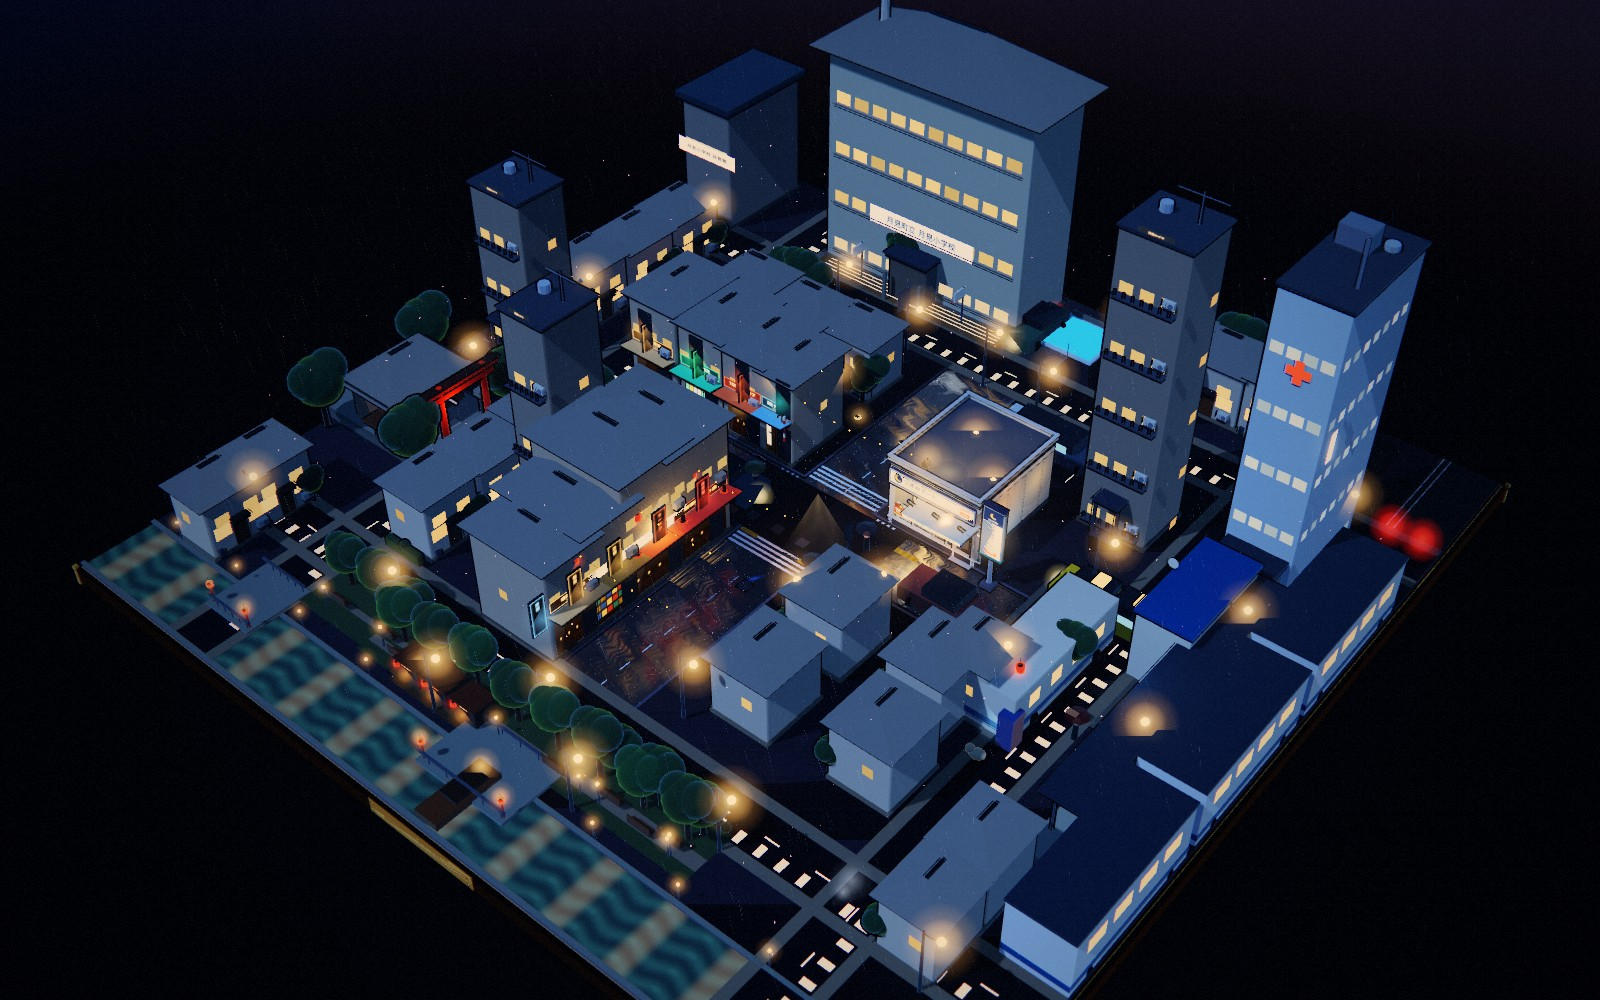
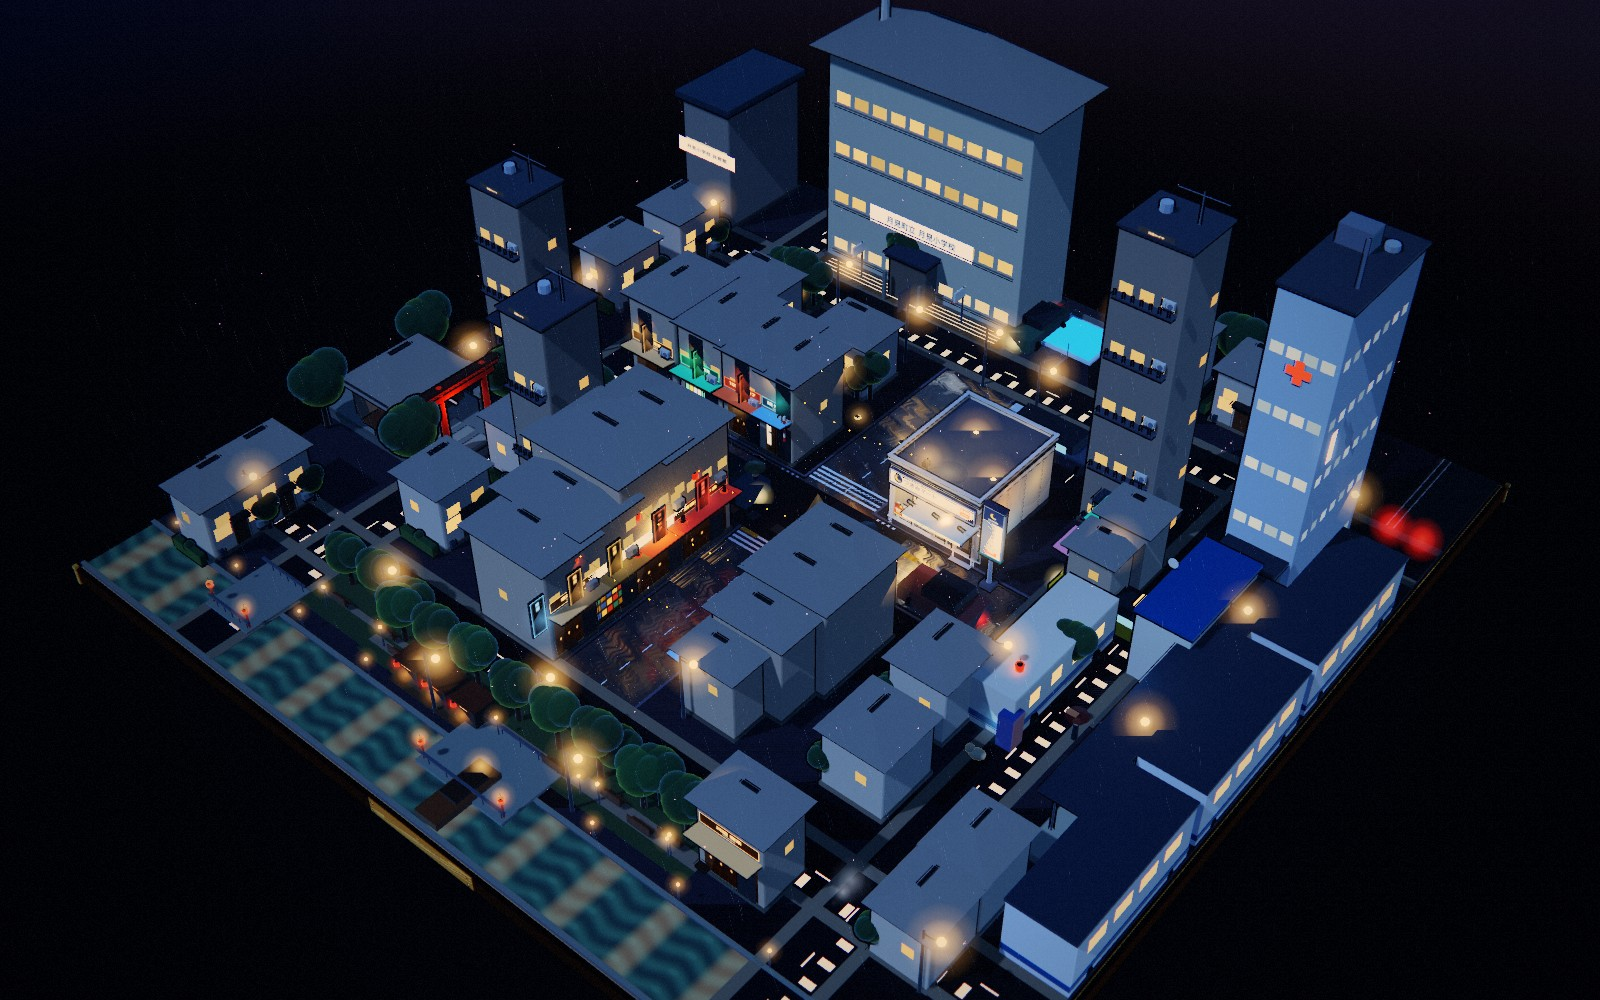
feat(konbini-rain): 拉开住宅间距 + 补齐商业街/医院/河岸店铺
- 独栋住宅 21→14 栋，沿街间距拉开，留出庭院/绿篱/树，解决房子太挤
- 主街东侧新增洋服/电器/邮局/交番，形成两侧真正的商店街
- 医院周边新增 24h 药局/花店，河边新增川辺喫茶
- 14 栋住宅 + 3 栋公寓 + 15 家店面/设施，44×44 街区重新分布
- README/首页卡片/日间・夜间・街景截图同步

diff --git a/apps/konbini-rain/src/config.js b/apps/konbini-rain/src/config.js
@@ -241,6 +241,16 @@ export const E = {
     { id: 'pharmacy', style: 'pharmacy', jp: 'くすり 月見', en: 'PHARMACY', kind: 'pharmacy', x: -8.6, z: -2.4, ry: 0, w: 2.6, d: 4.0, h: 5.0, accent: '#7dffc0', sign: '#c8f0ff', paper: '#1a3a3a' },
     { id: 'thrift', style: 'thrift', jp: '100円ショップ', en: 'HYAKU-EN', kind: 'thrift', x: -6.0, z: -2.4, ry: 0, w: 2.4, d: 4.0, h: 4.8, accent: '#ff8a5c', sign: '#ffe0b0', paper: '#5a2a2a' },
     { id: 'barber', style: 'barber', jp: '床屋 タカハシ', en: 'TAKAHASHI', kind: 'barber', x: -4.0, z: -2.4, ry: 0, w: 1.8, d: 3.6, h: 4.6, accent: '#9fd8ff', sign: '#cfe8ff', paper: '#1e2a3a' },
+    // 主街东侧第二排店面（朝西，构成真正两侧商店街）
+    { id: 'clothing', style: 'clothing', jp: '洋服 そよ風', en: 'SOYOKAZE', kind: 'clothing', x: 3.3, z: 4.4, ry: -Math.PI / 2, w: 2.2, d: 3.8, h: 4.8, accent: '#e8a0b8', sign: '#ffe0e8', paper: '#3a2430' },
+    { id: 'electronics', style: 'electronics', jp: '電器 ヤマ電', en: 'YAMADEN', kind: 'electronics', x: 3.3, z: 6.6, ry: -Math.PI / 2, w: 2.2, d: 3.8, h: 4.8, accent: '#9fd8ff', sign: '#d8f0ff', paper: '#1e2a3a' },
+    { id: 'post', style: 'post', jp: '月見郵便局', en: 'POST OFFICE', kind: 'post', x: 3.3, z: 8.8, ry: -Math.PI / 2, w: 2.0, d: 3.4, h: 4.2, accent: '#ff6f5e', sign: '#ffd9a0', paper: '#3a1e1a' },
+    { id: 'koban', style: 'post', jp: '月見交番', en: 'KOBA N', kind: 'post', x: 3.3, z: 10.8, ry: -Math.PI / 2, w: 1.7, d: 2.6, h: 3.4, accent: '#9fd8ff', sign: '#d8f0ff', paper: '#1e2a3a' },
+    // 医院周边：24h 药局 / 花店
+    { id: 'clinic-pharmacy', style: 'pharmacy', jp: '24h 月見薬局', en: 'TSUKIMI 24H', kind: 'pharmacy', x: 11.2, z: -6.2, ry: -Math.PI / 2, w: 1.9, d: 2.2, h: 3.4, accent: '#7dffc0', sign: '#c8f0ff', paper: '#1a3a3a' },
+    { id: 'clinic-flower', style: 'flower', jp: '花 ふじ', en: 'FUJI FLOWERS', kind: 'clothing', x: 11.2, z: -3.8, ry: -Math.PI / 2, w: 1.7, d: 2.0, h: 3.2, accent: '#ffb7c5', sign: '#ffe0e8', paper: '#3a2430' },
+    // 河边咖啡
+    { id: 'river-cafe', style: 'cafe', jp: '川辺 喫茶', en: 'RIVERSIDE', kind: 'cafe', x: 10.4, z: 16.8, ry: 0, w: 3.0, d: 2.2, h: 3.8, accent: '#ffcf94', sign: '#ffd9a0', paper: '#2a1c14' },
   ],
 
 
@@ -261,34 +271,28 @@ export const E = {
 
   // 住宅（外圈 + 内圈，按街道朝向）
   houses: [
-    // 西侧外圈（沿次街）
-    { x: -19.0, z: -12.0, w: 3.0, d: 2.6, h: 3.1, ry: Math.PI / 2, roof: 'gable', warm: '#ffcf94', garden: true },
-    { x: -19.0, z: -8.6, w: 3.0, d: 2.6, h: 3.0, ry: Math.PI / 2, roof: 'hip', warm: '#ffd9a0', garden: true },
-    { x: -19.0, z: -5.2, w: 3.0, d: 2.6, h: 3.2, ry: Math.PI / 2, roof: 'gable', warm: '#ffcf94', garden: false },
+    // 西侧外圈（拉开间距，每户带院子）
+    { x: -19.0, z: -12.2, w: 3.0, d: 2.6, h: 3.1, ry: Math.PI / 2, roof: 'gable', warm: '#ffcf94', garden: true },
+    { x: -19.0, z: -7.6, w: 3.0, d: 2.6, h: 3.0, ry: Math.PI / 2, roof: 'hip', warm: '#ffd9a0', garden: true },
     { x: -19.0, z: 14.4, w: 3.0, d: 2.4, h: 3.0, ry: Math.PI / 2, roof: 'hip', warm: '#ffd9a0', garden: true },
-    { x: -19.0, z: 16.8, w: 3.0, d: 2.4, h: 2.9, ry: Math.PI / 2, roof: 'gable', warm: '#ffcf94', garden: false },
-    // 北侧外圈（校园以东）
-    { x: 6.2, z: -19.0, w: 3.0, d: 2.8, h: 3.1, ry: 0, roof: 'gable', warm: '#ffcf94', garden: true },
-    { x: 9.4, z: -19.0, w: 3.0, d: 2.8, h: 3.0, ry: 0, roof: 'hip', warm: '#ffd9a0', garden: false },
-    { x: 12.6, z: -19.0, w: 3.0, d: 2.8, h: 3.2, ry: 0, roof: 'gable', warm: '#ffcf94', garden: true },
-    // 内圈西北（商店街背后）
-    { x: -11.4, z: -9.6, w: 3.0, d: 2.6, h: 3.2, ry: 0, roof: 'gable', warm: '#ffcf94', garden: true },
-    { x: -8.0, z: -9.6, w: 3.0, d: 2.6, h: 3.0, ry: 0, roof: 'hip', warm: '#ffd9a0', garden: false },
-    { x: -4.8, z: -9.6, w: 2.8, d: 2.6, h: 3.1, ry: 0, roof: 'hip', warm: '#ffcf94', garden: true },
+    { x: -19.0, z: 16.8, w: 3.0, d: 2.4, h: 2.9, ry: Math.PI / 2, roof: 'gable', warm: '#ffcf94', garden: true },
+    // 北侧外圈（校园以东，间距 4.6m）
+    { x: 6.6, z: -19.0, w: 3.0, d: 2.8, h: 3.1, ry: 0, roof: 'gable', warm: '#ffcf94', garden: true },
+    { x: 11.2, z: -19.0, w: 3.0, d: 2.8, h: 3.0, ry: 0, roof: 'hip', warm: '#ffd9a0', garden: true },
+    // 内圈西北（商店街背后，留出庭院）
+    { x: -11.2, z: -9.6, w: 3.0, d: 2.6, h: 3.2, ry: 0, roof: 'gable', warm: '#ffcf94', garden: true },
+    { x: -5.2, z: -9.6, w: 3.0, d: 2.6, h: 3.0, ry: 0, roof: 'hip', warm: '#ffd9a0', garden: true },
     // 内圈西南（商店街以西）
-    { x: -12.0, z: 4.6, w: 2.8, d: 2.6, h: 3.2, ry: Math.PI / 2, roof: 'gable', warm: '#ffcf94', garden: true },
-    { x: -12.0, z: 7.8, w: 2.8, d: 2.6, h: 3.0, ry: Math.PI / 2, roof: 'hip', warm: '#ffd9a0', garden: false },
-    { x: -12.0, z: 11.0, w: 2.8, d: 2.6, h: 3.1, ry: Math.PI / 2, roof: 'gable', warm: '#ffcf94', garden: true },
+    { x: -12.0, z: 5.2, w: 2.8, d: 2.6, h: 3.2, ry: Math.PI / 2, roof: 'gable', warm: '#ffcf94', garden: true },
+    { x: -12.0, z: 10.2, w: 2.8, d: 2.6, h: 3.1, ry: Math.PI / 2, roof: 'hip', warm: '#ffcf94', garden: true },
     // 内圈东南
-    { x: 5.6, z: 5.0, w: 3.2, d: 2.8, h: 3.2, ry: -Math.PI / 2, roof: 'gable', warm: '#ffcf94', garden: true },
-    { x: 5.6, z: 9.4, w: 3.2, d: 2.8, h: 3.0, ry: -Math.PI / 2, roof: 'hip', warm: '#ffd9a0', garden: false },
-    { x: 10.6, z: 5.2, w: 3.0, d: 2.6, h: 3.1, ry: -Math.PI / 2, roof: 'hip', warm: '#ffcf94', garden: true },
-    { x: 11.2, z: 9.2, w: 3.0, d: 2.8, h: 3.1, ry: -Math.PI / 2, roof: 'hip', warm: '#ffd9a0', garden: true },
-    { x: 11.6, z: 3.8, w: 2.4, d: 2.4, h: 3.0, ry: -Math.PI / 2, roof: 'gable', warm: '#ffcf94', garden: false },
+    { x: 10.8, z: 5.2, w: 3.0, d: 2.6, h: 3.1, ry: -Math.PI / 2, roof: 'hip', warm: '#ffcf94', garden: true },
+    { x: 11.2, z: 9.6, w: 3.0, d: 2.8, h: 3.1, ry: -Math.PI / 2, roof: 'gable', warm: '#ffd9a0', garden: true },
     // 东侧外圈
-    { x: 17.0, z: 11.0, w: 2.8, d: 2.4, h: 3.0, ry: -Math.PI / 2, roof: 'gable', warm: '#ffd9a0', garden: false },
-    { x: 17.0, z: 14.0, w: 2.8, d: 2.4, h: 2.9, ry: -Math.PI / 2, roof: 'hip', warm: '#ffcf94', garden: true },
+    { x: 17.0, z: 11.4, w: 2.8, d: 2.4, h: 3.0, ry: -Math.PI / 2, roof: 'gable', warm: '#ffd9a0', garden: true },
+    { x: 17.0, z: 14.4, w: 2.8, d: 2.4, h: 2.9, ry: -Math.PI / 2, roof: 'hip', warm: '#ffcf94', garden: true },
   ],
+
 
 
   apartments: [

diff --git a/apps/konbini-rain/README.md b/apps/konbini-rain/README.md
@@ -2,7 +2,7 @@
 
 > 一座完全由代码生成的雨夜日式小镇：44×44 的胡桃木收藏底座，中央十字街 + 四条次街，
 > 东北便利店、主街商店街、北侧大校园、西侧神社、东侧医院与车站、南侧河与桥，
-> 21 栋独栋住宅、3 栋公寓、8 家店面、1 座大校园和完整的雨夜动效层。
+> 14 栋独栋住宅、3 栋公寓、15 家店面/设施、1 座大校园、医院、车站与河流，以及完整的雨夜动效层。
 > 三渲二 + 湿路反射，可拖拽 / 缩放，右上角可切换**雨夜 / 晴日**与**全景 / 街景**。
 
 ![雨夜小镇 44×44](./screenshots/cover.jpg)
@@ -19,8 +19,10 @@
 - 保留原版完整内景：玻璃、自动门、雨棚、灯箱、货架、冷柜、便当、关东煮、咖啡机、收银台……
 
 **商业街**
-- 主街西侧：居酒屋、拉面店、古书店、喫茶、床屋（5 家，朝主街）
-- 主街北侧：喫茶、药局、100 円店、コインランドリー（4 家）
+- 主街西侧：居酒屋、拉面店、古书店、喫茶（4 家，朝主街）
+- 主街东侧：洋服、电器店、邮局、交番（4 家，朝主街）
+- 主街北侧：喫茶、药局、100 円店、床屋（4 家）
+- 医院周边：24h 药局、花店；河边：川辺喫茶
 - 花摊、竖招牌、灯笼串、贩卖机、自行车、小货车
 
 **北侧 · 大校园**
@@ -28,7 +30,7 @@
 - 体育馆（7m 高、侧窗、招牌）、25m 泳池、操场跑道、篮球架、围栏与校门
 
 **住宅区**
-- 21 栋日式独栋（坡 / 四坡屋顶、暖窗、庭院、围栏、信箱、空调）
+- 14 栋日式独栋（拉开间距，坡 / 四坡屋顶、暖窗、庭院、围栏、信箱、空调）
 - 3 栋公寓（3 / 5 层，阳台、空调、屋顶水箱、招牌）
 - 西侧 / 北侧 / 东侧外圈与内圈住宅，沿次街成排布置
 
@@ -103,7 +105,7 @@ src/
 
 - 这是「程序化生成的大镇」：住宅、公寓、商店、医院、车站是体块 + 招牌 + 亮窗 + 简化内景的微缩模型做法；
   只有便利店保留完整 3D 内景。
-- 21 栋住宅 / 3 栋公寓 / 8 家店面均为不同尺寸、朝向、屋顶与灯光组合，但共用同一套程序化构件。
+- 14 栋住宅 / 3 栋公寓 / 15 家店面与设施均为不同尺寸、朝向、屋顶与灯光组合，但共用同一套程序化构件。
 - 学校、医院、车站的内景是示意级别，不做逐房间 3D。
 
 ## 技术
